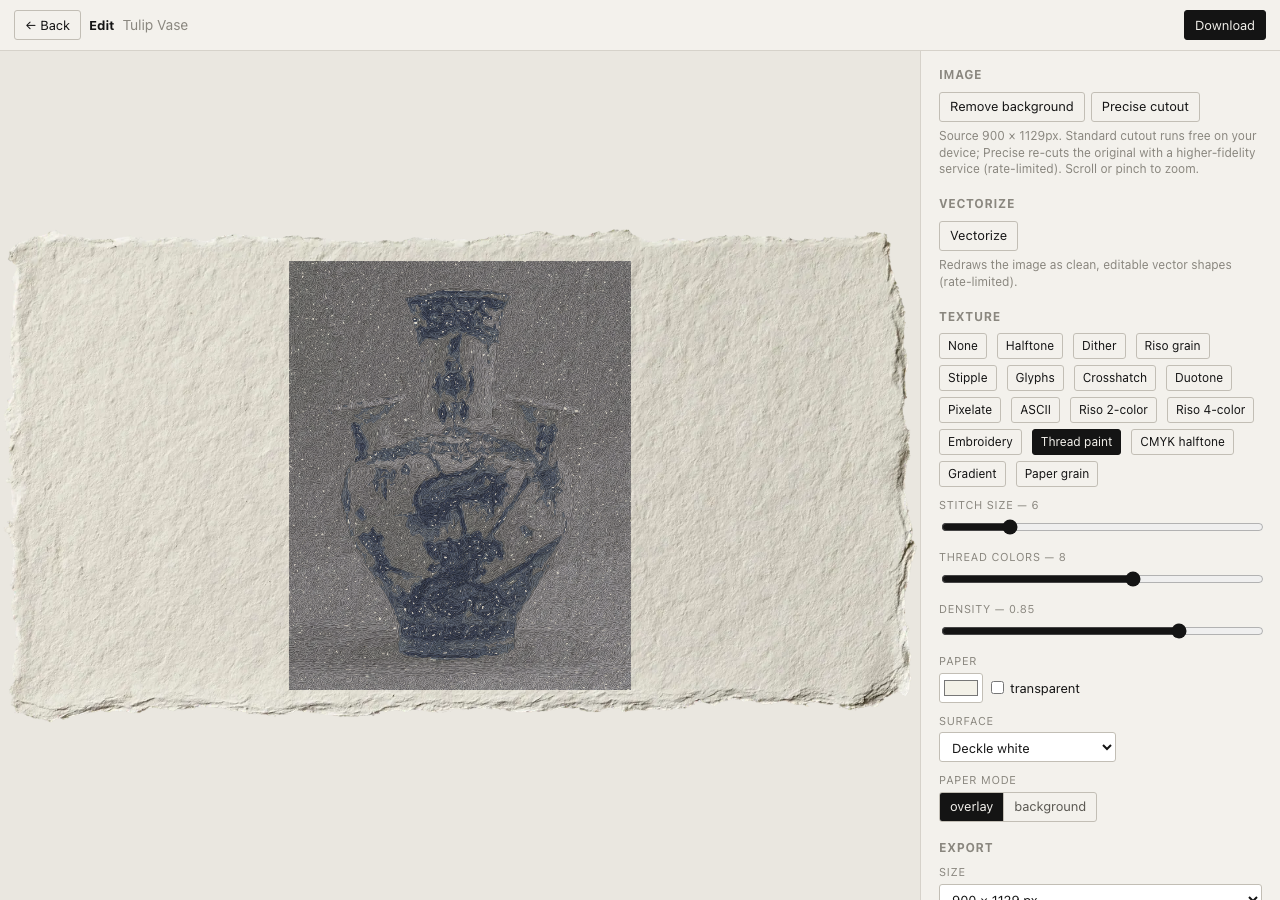
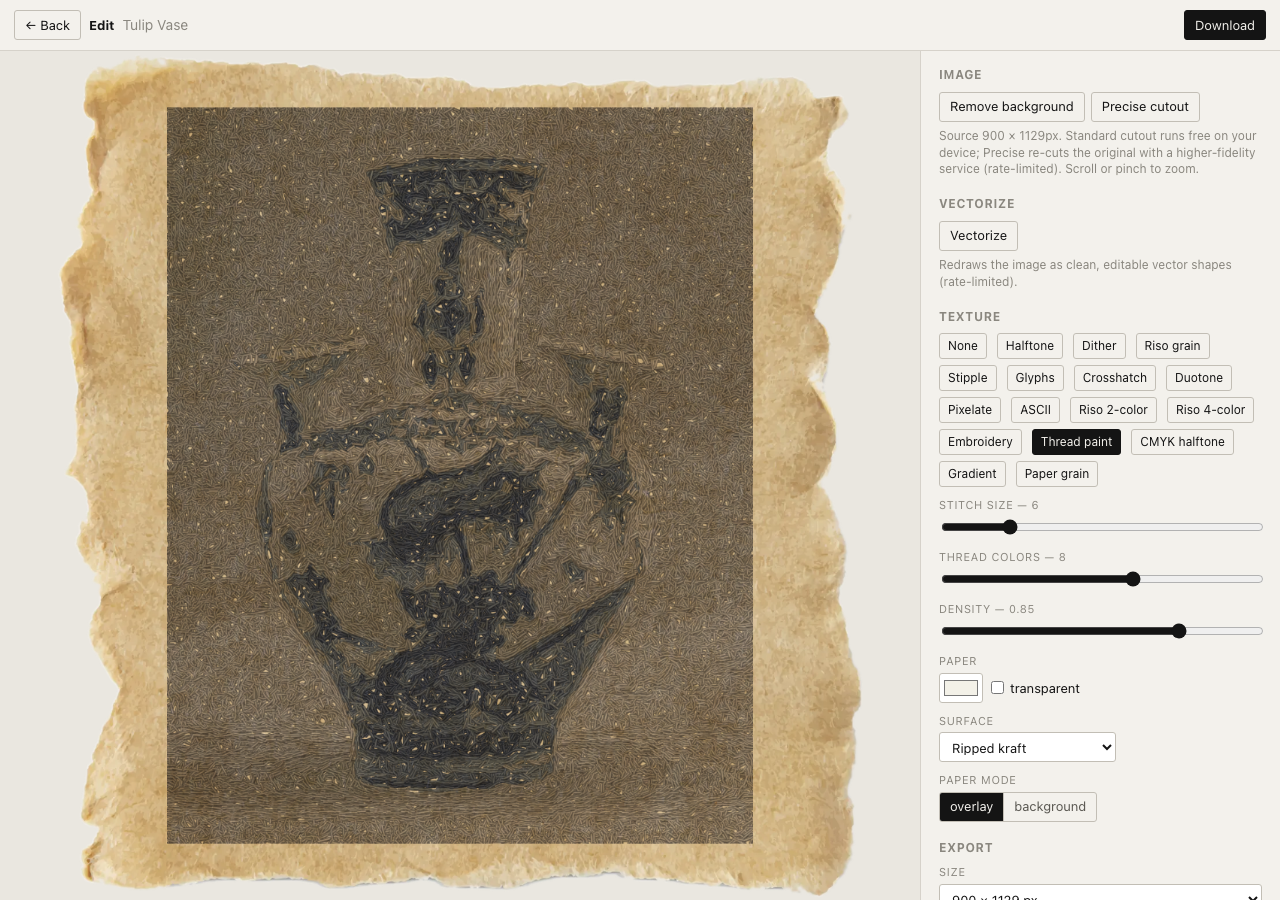
Ripped kraft edge sheet from the collage-element pack

diff --git a/src/lib/papers.ts b/src/lib/papers.ts
@@ -35,6 +35,7 @@ export const PAPER_SHEETS: PaperSheet[] = [
   { slug: 'torn-beige', label: 'Torn beige', group: 'edge', ext: 'webp', edge: true },
   { slug: 'torn-white', label: 'Torn white', group: 'edge', ext: 'webp', edge: true },
   { slug: 'handmade-gray', label: 'Handmade rough', group: 'edge', ext: 'webp', edge: true },
+  { slug: 'ripped-kraft', label: 'Ripped kraft', group: 'edge', ext: 'webp', edge: true },
   // fabric
   { slug: 'denim', label: 'Denim', group: 'fabric' },
   { slug: 'red-handmade', label: 'Red fiber', group: 'fabric' },
